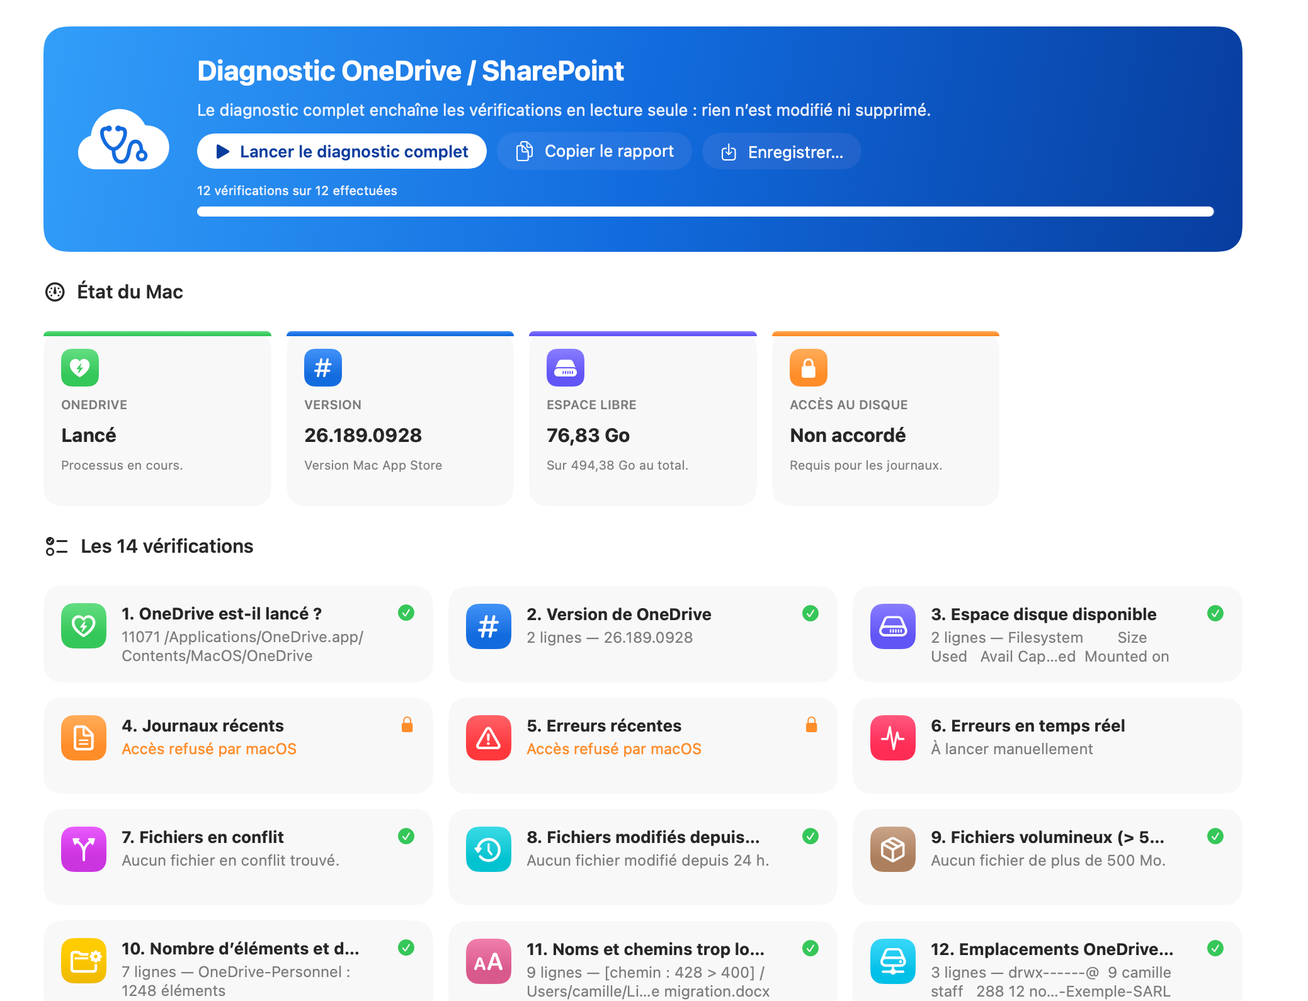
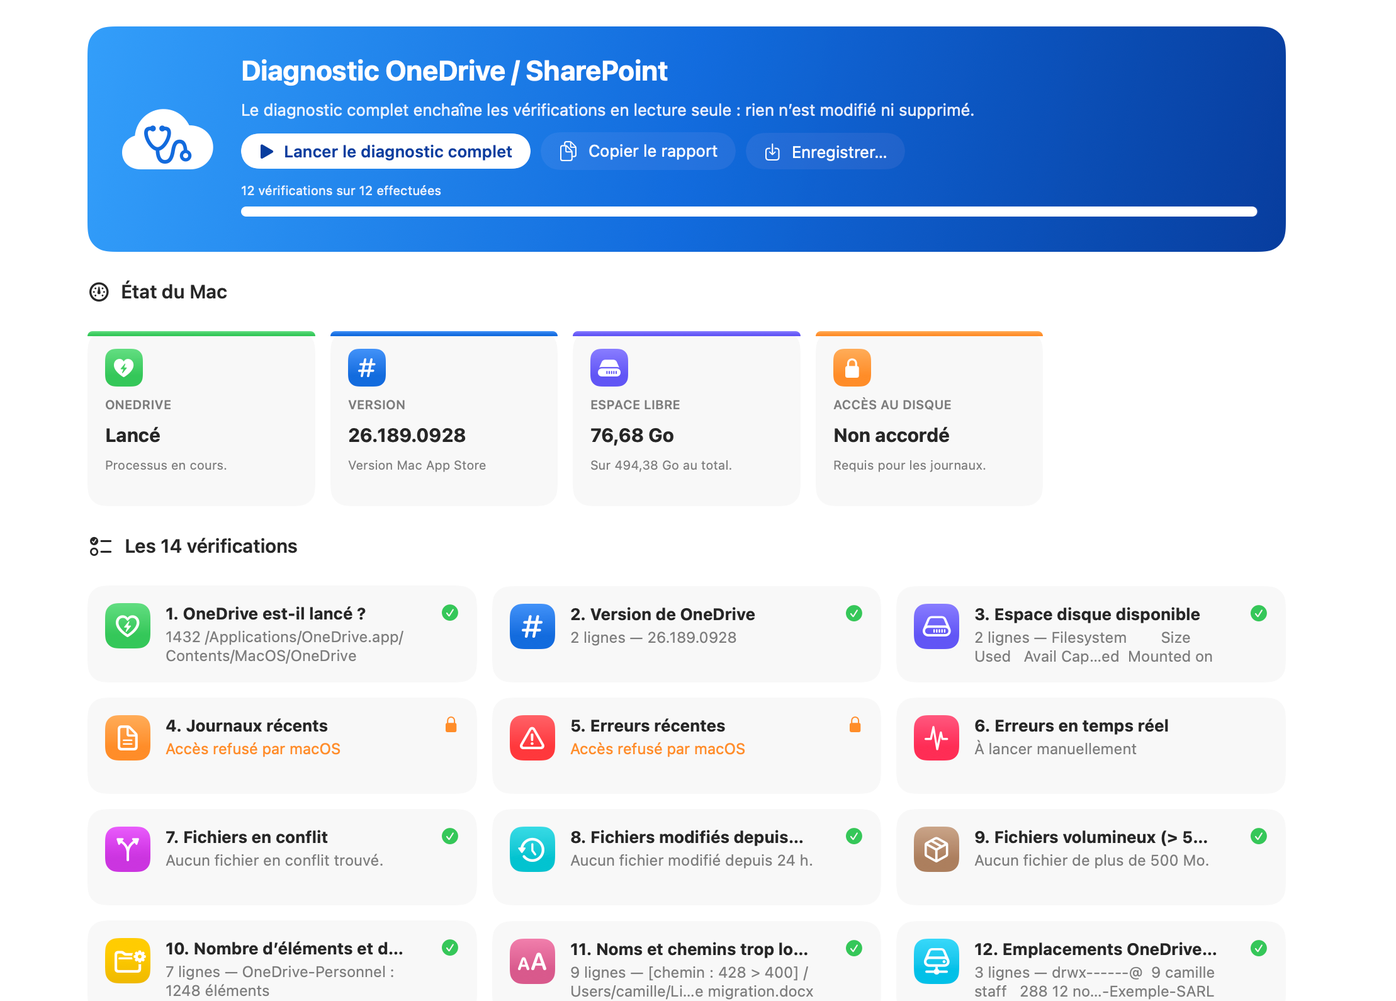
Renommage en SyncDoctor (version 1.2)
Le nom de l'app ne contient plus la marque OneDrive, conformément aux règles
d'usage des marques de Microsoft. Mention ajoutée : « OneDrive et SharePoint
sont des marques de Microsoft Corporation ».

- App, identifiant, sources, scripts, .dmg, README, « A lire.md », captures et
  image de présentation renommés.
- Les commandes pgrep n'ont plus besoin d'exclure l'app de leur résultat.

diff --git a/Sources/SyncDoctor/App.swift b/Sources/SyncDoctor/App.swift
@@ -3,11 +3,11 @@ import SwiftUI
 import UniformTypeIdentifiers
 
 @main
-struct DoctorOneDriveApp: App {
+struct SyncDoctorApp: App {
     @StateObject private var runner = Runner()
 
     var body: some Scene {
-        Window("DoctorOneDrive", id: "main") {
+        Window("SyncDoctor", id: "main") {
             ContentView()
                 .environmentObject(runner)
                 .frame(minWidth: 860, minHeight: 560)
@@ -17,7 +17,7 @@ struct DoctorOneDriveApp: App {
         .commands {
             CommandGroup(replacing: .newItem) {}
             CommandGroup(replacing: .appInfo) {
-                Button("À propos de DoctorOneDrive") { AboutPanel.show() }
+                Button("À propos de SyncDoctor") { AboutPanel.show() }
             }
             CommandMenu("Diagnostic") {
                 Button("Lancer le diagnostic complet") { runner.runAll() }
@@ -42,7 +42,7 @@ enum AboutPanel {
             string: "Conçu et développé par \(author)\n\n",
             attributes: [.font: NSFont.systemFont(ofSize: 12, weight: .semibold), .foregroundColor: NSColor.labelColor])
         credits.append(NSAttributedString(
-            string: "Diagnostic des synchronisations OneDrive et SharePoint sur Mac.\nApplication indépendante, sans lien avec Microsoft.",
+            string: "Diagnostic des synchronisations OneDrive et SharePoint sur Mac.\nApplication indépendante, sans lien avec Microsoft.\n\nOneDrive et SharePoint sont des marques de Microsoft Corporation.",
             attributes: [.font: NSFont.systemFont(ofSize: 11), .foregroundColor: NSColor.secondaryLabelColor]))
         let centered = NSMutableParagraphStyle()
         centered.alignment = .center
@@ -121,15 +121,15 @@ enum OneDriveApp {
     }
 }
 
-/// Outil de mise au point : `DOD_STEP=6 DOD_SNAPSHOT=/chemin.png` ouvre l’étape voulue,
-/// enregistre une image de la fenêtre puis quitte ; `DOD_RUN=1` exécute l’étape avant la capture,
-/// `DOD_WAIT=<secondes>` règle le délai avant capture et `DOD_REPORT=/chemin.txt` enregistre le rapport.
+/// Outil de mise au point : `SD_STEP=6 SD_SNAPSHOT=/chemin.png` ouvre l’étape voulue,
+/// enregistre une image de la fenêtre puis quitte ; `SD_RUN=1` exécute l’étape avant la capture,
+/// `SD_WAIT=<secondes>` règle le délai avant capture et `SD_REPORT=/chemin.txt` enregistre le rapport.
 /// Sans ces variables, ne fait rien.
 enum DebugSnapshot {
     private static let env = ProcessInfo.processInfo.environment
 
     static var initialSelection: SidebarItem? {
-        guard let raw = env["DOD_STEP"] else { return .overview }
+        guard let raw = env["SD_STEP"] else { return .overview }
         switch raw {
         case "advice": return .advice
         case "reset": return .reset
@@ -139,24 +139,24 @@ enum DebugSnapshot {
         }
     }
 
-    static var autoRun: Bool { env["DOD_SNAPSHOT"] != nil && env["DOD_RUN"] != nil }
-    /// `DOD_RUN=all` lance le diagnostic complet au lieu de la seule étape affichée.
-    static var autoRunAll: Bool { env["DOD_SNAPSHOT"] != nil && env["DOD_RUN"] == "all" }
+    static var autoRun: Bool { env["SD_SNAPSHOT"] != nil && env["SD_RUN"] != nil }
+    /// `SD_RUN=all` lance le diagnostic complet au lieu de la seule étape affichée.
+    static var autoRunAll: Bool { env["SD_SNAPSHOT"] != nil && env["SD_RUN"] == "all" }
 
     static func captureIfRequested(runner: Runner) {
-        guard let path = env["DOD_SNAPSHOT"] else { return }
+        guard let path = env["SD_SNAPSHOT"] else { return }
         // La capture ne dessine pas le fond de la fenêtre : en mode sombre le texte serait blanc sur blanc.
         NSApp.appearance = NSAppearance(named: .aqua)
-        let wait = Double(env["DOD_WAIT"] ?? "") ?? 2
-        // DOD_SIZE=largeurxhauteur : taille de la fenêtre pour la capture.
-        if let size = env["DOD_SIZE"]?.split(separator: "x").compactMap({ Double($0) }), size.count == 2 {
+        let wait = Double(env["SD_WAIT"] ?? "") ?? 2
+        // SD_SIZE=largeurxhauteur : taille de la fenêtre pour la capture.
+        if let size = env["SD_SIZE"]?.split(separator: "x").compactMap({ Double($0) }), size.count == 2 {
             DispatchQueue.main.asyncAfter(deadline: .now() + 0.3) {
                 NSApp.windows.first(where: { $0.isVisible })?
                     .setContentSize(NSSize(width: size[0], height: size[1]))
             }
         }
-        // DOD_DEMO=1 : remplace les résultats nominatifs par des données d’exemple, pour des captures publiables.
-        if env["DOD_DEMO"] != nil {
+        // SD_DEMO=1 : remplace les résultats nominatifs par des données d’exemple, pour des captures publiables.
+        if env["SD_DEMO"] != nil {
             DispatchQueue.main.asyncAfter(deadline: .now() + max(wait - 1, 0.5)) {
                 for (id, output) in DemoData.outputs {
                     runner.states[id] = StepState(output: output, running: false, lastRun: Date())
@@ -170,7 +170,7 @@ enum DebugSnapshot {
                 try? rep.representation(using: .png, properties: [:])?
                     .write(to: URL(fileURLWithPath: path))
             }
-            if let reportPath = env["DOD_REPORT"] {
+            if let reportPath = env["SD_REPORT"] {
                 var text = runner.report()
                 for id in 100..<300 where runner.state(id).lastRun != nil {
                     text += "\n[guide \(id)]\n\(runner.state(id).output)"
@@ -182,11 +182,12 @@ enum DebugSnapshot {
     }
 }
 
-/// Résultats fictifs des étapes qui affichent des noms de compte ou de fichiers (mode DOD_DEMO).
+/// Résultats fictifs des étapes qui affichent des noms de compte ou de fichiers (mode SD_DEMO).
 enum DemoData {
     private static let root = "/Users/camille/Library/CloudStorage"
 
     static let outputs: [Int: String] = [
+        1: "1432 /Applications/OneDrive.app/Contents/MacOS/OneDrive\n",
         10: """
             OneDrive-Personnel : 1248 éléments
               dont 96 dossiers et sous-dossiers, sur 5 niveaux au plus

diff --git a/Sources/SyncDoctor/Steps.swift b/Sources/SyncDoctor/Steps.swift
@@ -49,7 +49,7 @@ enum OneDriveLogs {
 
     static var expandedDir: String { (dir as NSString).expandingTildeInPath }
 
-    static let locationNote = "Emplacement des journaux : ~/Library/Logs/OneDrive pour la version autonome, ~/Library/Containers/com.microsoft.OneDrive-mac/Data/Library/Logs pour la version Mac App Store. DoctorOneDrive utilise celui qui correspond à la version installée. Pour la version Mac App Store, ce dossier appartient à une autre app : macOS n’en autorise la lecture qu’avec votre accord."
+    static let locationNote = "Emplacement des journaux : ~/Library/Logs/OneDrive pour la version autonome, ~/Library/Containers/com.microsoft.OneDrive-mac/Data/Library/Logs pour la version Mac App Store. SyncDoctor utilise celui qui correspond à la version installée. Pour la version Mac App Store, ce dossier appartient à une autre app : macOS n’en autorise la lecture qu’avec votre accord."
 
     static let collectNote = "Pour le support, Microsoft fournit aussi dans OneDrive.app le script Contents/Resources/CollectLogs.command, qui crée sur le Bureau une archive des journaux."
 }
@@ -65,8 +65,7 @@ enum Steps {
             title: "OneDrive est-il lancé ?",
             symbol: "bolt.heart",
             explanation: "Liste les processus OneDrive en cours. Si aucune ligne ne s’affiche, OneDrive n’est pas lancé : utilisez le bouton « Lancer OneDrive ».",
-            // DoctorOneDrive est exclu, sinon l’app se détecterait elle-même.
-            command: #"pgrep -fl "OneDrive" | grep -v "DoctorOneDrive""#,
+            command: #"pgrep -fl "OneDrive""#,
             emptyHint: "Aucun processus OneDrive : OneDrive n’est pas lancé."
         ),
         DiagStep(
@@ -344,8 +343,8 @@ enum DualInstall {
             command: "mount | grep -i onedrive", runnable: true),
         GuideCommand(
             id: 103, title: "Vérifier les processus",
-            note: "Liste les processus OneDrive en cours (DoctorOneDrive est exclu de la liste).",
-            command: #"pgrep -afil OneDrive | grep -v "DoctorOneDrive""#, runnable: true),
+            note: "Liste les processus OneDrive en cours.",
+            command: "pgrep -afil OneDrive", runnable: true),
         GuideCommand(
             id: 104, title: "Quitter OneDrive",
             note: "macOS peut demander l’autorisation de contrôler OneDrive.",
@@ -353,10 +352,10 @@ enum DualInstall {
         GuideCommand(
             id: 105, title: "Vérifier qu’il ne reste aucun processus",
             note: "La commande ne doit plus rien renvoyer.",
-            command: #"pgrep -afil OneDrive | grep -v "DoctorOneDrive""#, runnable: true),
+            command: "pgrep -afil OneDrive", runnable: true),
         GuideCommand(
             id: 106, title: "S’il en reste, forcer la fermeture",
-            note: "Cette commande ferme aussi DoctorOneDrive, dont le nom contient « OneDrive » : rouvrez l’app ensuite.",
+            note: "Ferme de force tous les processus dont la ligne de commande contient « OneDrive ».",
             command: "pkill -f OneDrive", danger: true),
         GuideCommand(
             id: 107, title: "Supprimer l’entrée obsolète",

diff --git a/Sources/SyncDoctor/Design.swift b/Sources/SyncDoctor/Design.swift
@@ -134,7 +134,7 @@ struct SystemStatus {
 }
 
 enum FullDiskAccess {
-    /// Vrai si macOS laisse DoctorOneDrive lire un fichier réservé aux apps ayant l’accès complet au disque.
+    /// Vrai si macOS laisse SyncDoctor lire un fichier réservé aux apps ayant l’accès complet au disque.
     static var isGranted: Bool {
         let path = NSHomeDirectory() + "/Library/Application Support/com.apple.TCC/TCC.db"
         guard let handle = FileHandle(forReadingAtPath: path) else { return false }
@@ -271,27 +271,27 @@ struct FullDiskView: View {
                             symbol: granted ? "checkmark.seal.fill" : "lock.fill",
                             tint: granted ? .green : .orange,
                             text: granted
-                                ? "DoctorOneDrive dispose de l’accès complet au disque."
-                                : "DoctorOneDrive n’a pas l’accès complet au disque.")
+                                ? "SyncDoctor dispose de l’accès complet au disque."
+                                : "SyncDoctor n’a pas l’accès complet au disque.")
                         Text("Utilité : lire le dossier des journaux de OneDrive (étapes 4, 5, 6 et 13). Pour la version Mac App Store, ce dossier se trouve dans le conteneur de OneDrive, que macOS réserve à OneDrive.")
                             .fixedSize(horizontal: false, vertical: true)
                         Button {
                             NSWorkspace.shared.activateFileViewerSelecting([Bundle.main.bundleURL])
                         } label: {
-                            Label("Afficher DoctorOneDrive dans le Finder", systemImage: "folder")
+                            Label("Afficher SyncDoctor dans le Finder", systemImage: "folder")
                         }
                     }
                     .frame(maxWidth: .infinity, alignment: .leading)
                     .padding(6)
                 } label: {
-                    Label("DoctorOneDrive", systemImage: "stethoscope").font(.headline)
+                    Label("SyncDoctor", systemImage: "stethoscope").font(.headline)
                 }
 
                 GroupBox {
                     VStack(alignment: .leading, spacing: 10) {
                         Text("Utilité : d’après Microsoft, si les dossiers Bureau et Documents ne sont pas sauvegardés, il faut utiliser la version autonome de OneDrive et lui accorder l’accès complet au disque.")
                             .fixedSize(horizontal: false, vertical: true)
-                        Text("DoctorOneDrive ne peut pas savoir si OneDrive dispose déjà de cet accès : vérifiez sa présence dans la liste de Réglages Système.")
+                        Text("SyncDoctor ne peut pas savoir si OneDrive dispose déjà de cet accès : vérifiez sa présence dans la liste de Réglages Système.")
                             .foregroundStyle(.secondary)
                             .fixedSize(horizontal: false, vertical: true)
                         Button {

diff --git a/Sources/SyncDoctor/Runner.swift b/Sources/SyncDoctor/Runner.swift
@@ -49,7 +49,7 @@ final class Runner: ObservableObject {
             } else {
                 denied.insert(id)
                 preface = "Attention : macOS refuse l’accès à " + blocked.joined(separator: ", ")
-                    + ". Le résultat ci-dessous est donc incomplet. Autorisez DoctorOneDrive dans Réglages Système > "
+                    + ". Le résultat ci-dessous est donc incomplet. Autorisez SyncDoctor dans Réglages Système > "
                     + "Confidentialité et sécurité (Fichiers et dossiers, ou Accès complet au disque), puis relancez.\n\n"
             }
         }
@@ -111,9 +111,9 @@ final class Runner: ObservableObject {
             files = try FileManager.default.contentsOfDirectory(atPath: dir)
         } catch {
             return ("""
-                macOS refuse à DoctorOneDrive l’accès au dossier des journaux \(shown).
+                macOS refuse à SyncDoctor l’accès au dossier des journaux \(shown).
 
-                Ce dossier appartient à OneDrive. Pour le lire, ajoutez DoctorOneDrive dans Réglages Système > \
+                Ce dossier appartient à OneDrive. Pour le lire, ajoutez SyncDoctor dans Réglages Système > \
                 Confidentialité et sécurité > Accès complet au disque, puis relancez cette étape. \
                 Sans cet accord, cette étape ne peut rien conclure : ce n’est pas un résultat « sans erreur ».
 
@@ -204,7 +204,7 @@ final class Runner: ObservableObject {
         df.dateStyle = .long
         df.timeStyle = .medium
         df.locale = Locale(identifier: "fr_FR")
-        var out = "DoctorOneDrive — rapport de diagnostic\n"
+        var out = "SyncDoctor — rapport de diagnostic\n"
         out += "Date : \(df.string(from: Date()))\n"
         out += "macOS : \(ProcessInfo.processInfo.operatingSystemVersionString)\n"
         out += "Dossier des journaux : \(OneDriveLogs.dir)\n"

diff --git a/scripts/make_visuals.swift b/scripts/make_visuals.swift
@@ -101,9 +101,10 @@ case "banner":
                 .paragraphStyle: style,
             ]).draw(with: NSRect(x: 80, y: h - top - 500, width: width, height: 500), options: [.usesLineFragmentOrigin])
         }
-        text("DoctorOneDrive", size: 104, weight: .bold, alpha: 1, top: 450)
-        text("Le diagnostic OneDrive\net SharePoint pour Mac,\nen un clic.", size: 58, weight: .medium, alpha: 0.95, top: 610)
-        text("14 vérifications · lecture seule\ngratuit et open source", size: 36, weight: .regular, alpha: 0.85, top: 960)
+        text("SyncDoctor", size: 124, weight: .bold, alpha: 1, top: 440)
+        text("Le diagnostic pour OneDrive\net SharePoint sur Mac,\nen un clic.", size: 56, weight: .medium, alpha: 0.95, top: 620)
+        text("14 vérifications · lecture seule\ngratuit et open source", size: 36, weight: .regular, alpha: 0.85, top: 930)
+        text("Application indépendante. OneDrive et SharePoint\nsont des marques de Microsoft Corporation.", size: 23, weight: .regular, alpha: 0.7, top: 1130)
     }
     save(out, args[4])
 

diff --git a/Sources/SyncDoctor/Views.swift b/Sources/SyncDoctor/Views.swift
@@ -640,7 +640,7 @@ struct ResetView: View {
 
                 Callout(
                     symbol: "exclamationmark.triangle.fill", tint: .orange,
-                    text: "Dernier recours. La réinitialisation n’est à envisager qu’après avoir épuisé le diagnostic et les conseils. DoctorOneDrive ne la lance pas à votre place : suivez les étapes ci-dessous, qui sont celles de Microsoft.")
+                    text: "Dernier recours. La réinitialisation n’est à envisager qu’après avoir épuisé le diagnostic et les conseils. SyncDoctor ne la lance pas à votre place : suivez les étapes ci-dessous, qui sont celles de Microsoft.")
 
                 GroupBox {
                     NumberedList(items: Advice.reset)

diff --git a/Package.swift b/Package.swift
@@ -2,14 +2,14 @@
 import PackageDescription
 
 let package = Package(
-    name: "DoctorOneDrive",
+    name: "SyncDoctor",
     // Le SDK de Xcode 27.1 plafonne la cible à 27.0 ; le minimum 27.2 est imposé par
     // LSMinimumSystemVersion dans Resources/Info.plist.
     platforms: [.macOS("27.0")],
     targets: [
         .executableTarget(
-            name: "DoctorOneDrive",
-            path: "Sources/DoctorOneDrive",
+            name: "SyncDoctor",
+            path: "Sources/SyncDoctor",
             swiftSettings: [.swiftLanguageMode(.v5)]
         )
     ]

diff --git a/README.md b/README.md
@@ -1,20 +1,20 @@
-# DoctorOneDrive
+# SyncDoctor pour OneDrive et SharePoint
 
-![DoctorOneDrive : le diagnostic OneDrive et SharePoint pour Mac](docs/presentation.png)
+![SyncDoctor, le diagnostic pour OneDrive et SharePoint sur Mac](docs/presentation.png)
 
 Diagnostic des synchronisations OneDrive et SharePoint sur Mac, en un clic.
 
-DoctorOneDrive réunit dans une app macOS les commandes Terminal utiles pour comprendre pourquoi OneDrive ou une bibliothèque SharePoint ne synchronise plus. Chaque écran affiche la commande exacte qui est exécutée, et le résultat peut être copié ou enregistré dans un rapport à transmettre au support.
+SyncDoctor réunit dans une app macOS les commandes Terminal utiles pour comprendre pourquoi OneDrive ou une bibliothèque SharePoint ne synchronise plus. Chaque écran affiche la commande exacte qui est exécutée, et le résultat peut être copié ou enregistré dans un rapport à transmettre au support.
 
 Tout le diagnostic est en lecture seule : l'app ne supprime rien et ne réinitialise rien.
 
 ## Téléchargement
 
-[Télécharger DoctorOneDrive (.dmg)](https://github.com/mx-ch-rgb/DoctorOneDrive/releases/latest/download/DoctorOneDrive-1.1.dmg)
+[Télécharger SyncDoctor (.dmg)](https://github.com/mx-ch-rgb/SyncDoctor/releases/latest/download/SyncDoctor-1.2.dmg)
 
 - macOS 27.2 ou ultérieur, Mac Apple Silicon.
 - App signée et notarisée par Apple.
-- Ouvrez le .dmg, puis glissez DoctorOneDrive dans Applications.
+- Ouvrez le .dmg, puis glissez SyncDoctor dans Applications.
 
 Le mode d'emploi est dans [A lire.md](A%20lire.md).
 
@@ -56,14 +56,14 @@ Les commandes complètes des étapes 10 et 11 s'affichent dans l'app. Les limite
 `<journaux>` dépend de la version de OneDrive installée, que l'app détecte :
 
 - version autonome : `~/Library/Logs/OneDrive` ;
-- version Mac App Store : `~/Library/Containers/com.microsoft.OneDrive-mac/Data/Library/Logs`. Ce dossier appartient à OneDrive : pour le lire, DoctorOneDrive doit être ajouté dans Réglages Système > Confidentialité et sécurité > Accès complet au disque. Sans cet accord, l'app l'indique au lieu de conclure à l'absence d'erreur.
+- version Mac App Store : `~/Library/Containers/com.microsoft.OneDrive-mac/Data/Library/Logs`. Ce dossier appartient à OneDrive : pour le lire, SyncDoctor doit être ajouté dans Réglages Système > Confidentialité et sécurité > Accès complet au disque. Sans cet accord, l'app l'indique au lieu de conclure à l'absence d'erreur.
 
 Le « diagnostic complet » enchaîne les étapes 1 à 5 et 7 à 13. Le suivi en temps réel (6) et le redémarrage (14) se lancent à la main ; le redémarrage demande une confirmation.
 
 ## Aide intégrée
 
 - **Conseils** : à faire, à ne pas faire, que faire si le problème persiste, et les recommandations de Microsoft (raccourcis OneDrive plutôt que le bouton Synchroniser, limites de taille et de nommage).
-- **Accès complet au disque** : lien direct vers le réglage macOS, état de l'autorisation pour DoctorOneDrive et marche à suivre pour DoctorOneDrive et OneDrive.
+- **Accès complet au disque** : lien direct vers le réglage macOS, état de l'autorisation pour SyncDoctor et marche à suivre pour SyncDoctor et OneDrive.
 - **Deux versions de OneDrive** : détection des installations présentes, commandes d'identification et procédure de correction de Microsoft, puis un nettoyage manuel dans le Terminal, signalé comme non documenté par Microsoft.
 - **Reset OneDrive** : la procédure de réinitialisation de Microsoft, en dernier recours. L'app ne la lance pas elle-même.
 
@@ -84,7 +84,7 @@ Xcode 27 ou ultérieur est requis.
 ./build.sh
 ```
 
-Le script compile l'app pour arm64, l'assemble dans `build/DoctorOneDrive.app` et la signe avec le certificat « Developer ID Application » du trousseau. Sans certificat, utilisez une signature locale :
+Le script compile l'app pour arm64, l'assemble dans `build/SyncDoctor.app` et la signe avec le certificat « Developer ID Application » du trousseau. Sans certificat, utilisez une signature locale :
 
 ```bash
 SIGN_ID=- ./build.sh
@@ -92,8 +92,10 @@ SIGN_ID=- ./build.sh
 
 `./make_dmg.sh` crée le .dmg et `./notarize.sh` le fait notariser par Apple (un profil `notarytool` est nécessaire, voir l'en-tête du script).
 
-Les images de ce dépôt se régénèrent avec le mode capture de l'app (variables `DOD_*`, voir `App.swift`) et `scripts/make_visuals.swift`.
+Les images de ce dépôt se régénèrent avec le mode capture de l'app (variables `SD_*`, voir `App.swift`) et `scripts/make_visuals.swift`.
 
 ## Licence
 
-Logiciel libre sous [licence MIT](LICENSE). Conçu et développé par Marc Christiaens. Application indépendante, sans lien avec Microsoft.
+Logiciel libre sous [licence MIT](LICENSE). Conçu et développé par Marc Christiaens.
+
+SyncDoctor est une application indépendante, sans lien avec Microsoft. OneDrive et SharePoint sont des marques de Microsoft Corporation.

diff --git a/A lire.md b/A lire.md
@@ -1,6 +1,6 @@
-# DoctorOneDrive — À lire
+# SyncDoctor pour OneDrive et SharePoint — À lire
 
-DoctorOneDrive aide à comprendre pourquoi OneDrive ou une bibliothèque SharePoint ne synchronise plus sur un Mac. Ce document explique comment l'installer et s'en servir.
+SyncDoctor aide à comprendre pourquoi OneDrive ou une bibliothèque SharePoint ne synchronise plus sur un Mac. Ce document explique comment l'installer et s'en servir.
 
 ## Ce qu'il faut
 
@@ -9,8 +9,8 @@ DoctorOneDrive aide à comprendre pourquoi OneDrive ou une bibliothèque SharePo
 
 ## Installation
 
-1. Téléchargez [DoctorOneDrive-1.1.dmg](https://github.com/mx-ch-rgb/DoctorOneDrive/releases/latest/download/DoctorOneDrive-1.1.dmg).
-2. Ouvrez le fichier, puis glissez DoctorOneDrive dans le dossier Applications.
+1. Téléchargez [SyncDoctor-1.2.dmg](https://github.com/mx-ch-rgb/SyncDoctor/releases/latest/download/SyncDoctor-1.2.dmg).
+2. Ouvrez le fichier, puis glissez SyncDoctor dans le dossier Applications.
 3. Lancez l'app depuis Applications. macOS indique qu'elle a été téléchargée depuis Internet : cliquez sur Ouvrir. L'app est signée et notarisée par Apple.
 
 ## Premier diagnostic
@@ -30,8 +30,8 @@ Pour l'accorder :
 
 1. Dans la barre latérale, ouvrez « Accès complet au disque ».
 2. Cliquez sur « Ouvrir Accès complet au disque » : Réglages Système s'ouvre sur la bonne page.
-3. Ajoutez DoctorOneDrive à la liste avec le bouton « + » et activez son interrupteur.
-4. Quittez puis rouvrez DoctorOneDrive.
+3. Ajoutez SyncDoctor à la liste avec le bouton « + » et activez son interrupteur.
+4. Quittez puis rouvrez SyncDoctor.
 
 ## Les 14 vérifications
 
@@ -65,10 +65,10 @@ Les textes d'aide reprennent les pages d'assistance de Microsoft, citées en bas
 
 ## Limites connues
 
-- DoctorOneDrive lit et affiche : il ne répare pas à votre place. Les commandes qui suppriment quelque chose sont seulement affichées, à copier dans le Terminal.
+- SyncDoctor lit et affiche : il ne répare pas à votre place. Les commandes qui suppriment quelque chose sont seulement affichées, à copier dans le Terminal.
 - Le comptage des éléments (étape 10) peut être long sur une grande bibliothèque.
-- L'app est indépendante et n'a aucun lien avec Microsoft.
+- L'app est indépendante et n'a aucun lien avec Microsoft. OneDrive et SharePoint sont des marques de Microsoft Corporation.
 
 ## Licence et auteur
 
-DoctorOneDrive est un logiciel libre sous licence MIT, conçu et développé par Marc Christiaens. Le code source est sur [GitHub](https://github.com/mx-ch-rgb/DoctorOneDrive).
+SyncDoctor est un logiciel libre sous licence MIT, conçu et développé par Marc Christiaens. Le code source est sur [GitHub](https://github.com/mx-ch-rgb/SyncDoctor).
